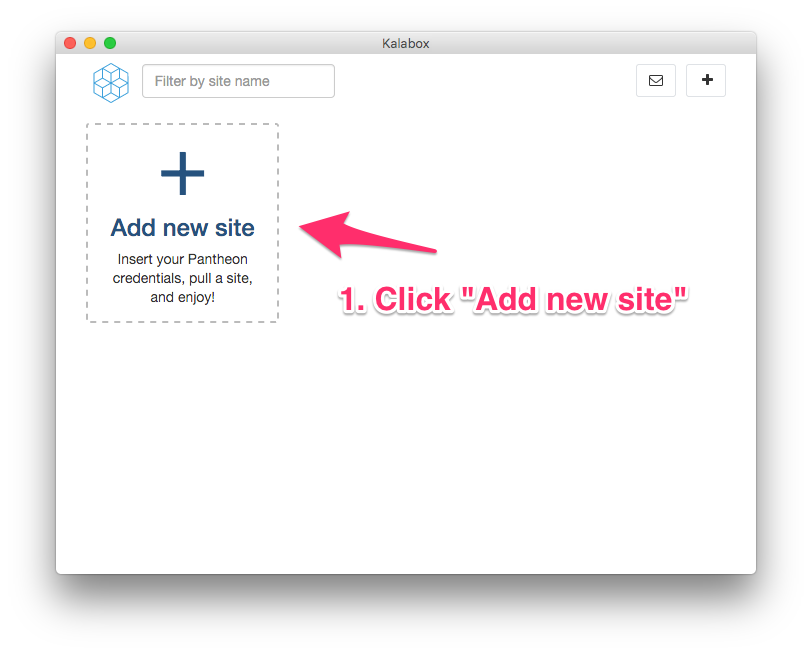
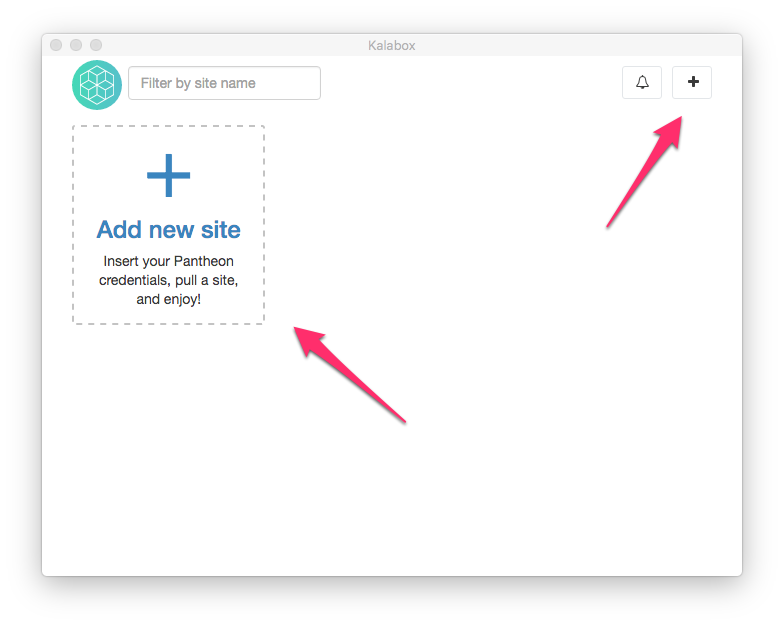
Update Pantheon app GUI instructions.

diff --git a/docs/users/gui.md b/docs/users/gui.md
@@ -1,31 +1,32 @@
 Kalabox GUI for Pantheon Apps
 =====================
 
-The Kalabox GUI allows you to pull down Pantheon sites, work on them, and push
-changes back to them, all with a few clicks.
+The Kalabox GUI allows you to pull down Pantheon sites, work on them, and push changes back to them, all with a few clicks.
 
-The following tutorial walks through creating a Pantheon app:
-
-## 1. Click Add New Site
+## Access the Sidebar
 
 ![Click add new site](../images/clickAddNew.png)
 
-## 2. Add Your Pantheon Account
+The sidebar is where you can create Pantheon sites. To access the sidebar, either click "Add New Site" or the "+" button in the upper right-hand corner.
+
+## Connect a Pantheon Account
 
 ![Add pantheon account credentials](../images/addPantheonAccount.png)
 
-Insert your username and password. Note that in the near future, we will be
-using Pantheon's Machine Tokens to authenticate. If you don't have a Pantheon
-account, [sign-up for a free one](http://support.kalabox.io/support/solutions/articles/pantheon.io/register).
+Click on "Pantheon" under "Add Account". Insert your username and password. Note that in the near future, we will be using Pantheon's Machine Tokens to authenticate. If you don't have a Pantheon account, [sign-up for a free one](http://support.kalabox.io/support/solutions/articles/pantheon.io/register).
 
-## 3. Click on Your Pantheon Account to See Available Sites
+
+## Download a Site From Pantheon
+
+First, click on your newly added Pantheon account:
 
 ![Click on account to see available sites](../images/availableSites.png)
 
-An accordion of site options should appear for you to select from. Click on one 
-of the sites.
+An accordion of site options should appear for you to select from. Click on one of the sites.
 
-## 4. Name and Pull the Site
+### Name and Pull the Site
+
+A prompt should appear asking you to name your site, select the environment you'd like to pull from, and choose whether you want to pull down your site's database and files:
 
 ![Name and pull your site](../images/pullSite.png)
 
@@ -33,71 +34,53 @@ The name that you provide for the site will become the site's Kalabox URL:
 "[name-of-site].kbox". It must be alpha-numeric; the only allowed special
 character is a dash.
 
-<div class="admonition caution">
-  <p class="admonition-title">Non-Latin Characters</p>
-  <p>Right now Kalabox does not support characters beyond the 26 common Latin
-    ones. This would be a great pull request (hint hint)!</p>
-</div>
+!!! caution "Non-Latin Characters"
+    Right now Kalabox does not support characters beyond the 26 common Latin ones. This would be a great pull request (hint hint)!
 
 You'll also chose which environment you want to pull from. This will dictate
 where database/files come from, so be aware that large assets will slow site
 creation.
 
-## 5. Wait for Your Site to Download
+!!! note "Why is My Site Taking So Long to Download?"
+    When you first pull a Pantheon site, creation will take longer. This is because Kalabox is downloading many extra assets (Docker images) needed to run your site on Kalabox.
 
-When you first pull a Pantheon site, creation will take longer. This is because
-Kalabox is downloading many extra assets (Docker images) needed to run your
-site on Kalabox.
+Your app should show up on the dashboard immediately, although it will be greyed out and will only show status messages regarding the creation progress:
 
-## 6. Success!
+![Download in progress](../images/pullSiteProgress.png)
+
+When it has finished downloading, the green power light should be on and a color screenshot should be present:
 
 ![Pantheon site successfully created](../images/pantheonSuccess.png)
 
-The green power light (and color screenshot) means your app is running. Click 
-on the screenshot or site title to visit your site in the browser.
+Click on the screenshot or site title to visit your site in the browser.
 
-## 7. Getting Database Connection Info
+## Get Database Connection Info
 
 ![Site actions dropdown](../images/siteActions.png)
 
-If you click the "Actions" gear symbol on your new Pantheon app, you'll see
-a number of options. Select "Connection Info" to see the database credentials
-to connect to your apps database from a browser like
-[PHPMyAdmin](https://www.phpmyadmin.net) or [SQLPro](http://www.sequelpro.com/).
+If you click the "Actions" gear symbol on your new Pantheon app, you'll see a number of options. Select "Connection Info" to see the database credentials to connect to your apps database from a browser like [PHPMyAdmin](https://www.phpmyadmin.net) or [SQLPro](http://www.sequelpro.com/):
 
 ![Connection info](../images/connectionInfo.png)
 
 
-## 8. Refreshing Your Site's Code, Database, and Files from Pantheon
+## Pull Code, Database, and Files from Pantheon
 
 ![Refresh site](../images/refreshSite.png)
 
-Clicking "Pull Site" from the Actions dropdown allows you to pull down the
-latest code, database, and files from your Pantheon site. Note that you must
-select the environment you want to pull from, but you can also opt-out of
-pulling your files or database. Pulling new code is mandatory.
+Clicking "Pull Site" from the Actions dropdown allows you to pull down the latest code, database, and files from your Pantheon site. Note that you must select the environment you want to pull from, but you can also opt-out of pulling your files or database. Pulling new code is mandatory.
 
-<div class="admonition warning">
-  <p class="admonition-title">Merge conflicts</p>
-  <p>If there's a merge conflict between the local code you have and the
-    code that's on Pantheon, this operation won't succeed.</p>
-</div>
+!!! warning "Merge Conflicts"
+    If there's a merge conflict between the local code you have and the code that's on Pantheon, this operation won't succeed.
 
-## 8. Pushing Your Work Back to Pantheon
+## Push Work Back to Pantheon
+
+When you're ready to deploy work back to Pantheon, select the "Push Site" option from the Actions dropdown.
 
 ![Refresh site](../images/pushSite.png)
 
-When you're ready to deploy work back to Pantheon, select the "Push Site" option
-from the Actions dropdown.
+Even if you don't have code changes, you must fill out a commit message. This will leave you a commit message to record what database or file changes you have deployed.
 
-Even if you don't have code changes, you must fill out a commit message. 
-This will leave you a commit message to record what database or file
-changes you have deployed.
-
-If your site is in "SFTP" mode on Pantheon and a commit already exists, you
-will receive a warning that the push operation was not able to be completed.
-You'll need to commit that code on Pantheon before the push operation can
-be ran successfully.
+If your site is in "SFTP" mode on Pantheon and a commit already exists, you will receive a warning that the push operation was not able to be completed. You'll need to commit that code on Pantheon before the push operation can be ran successfully.
 
 
 
